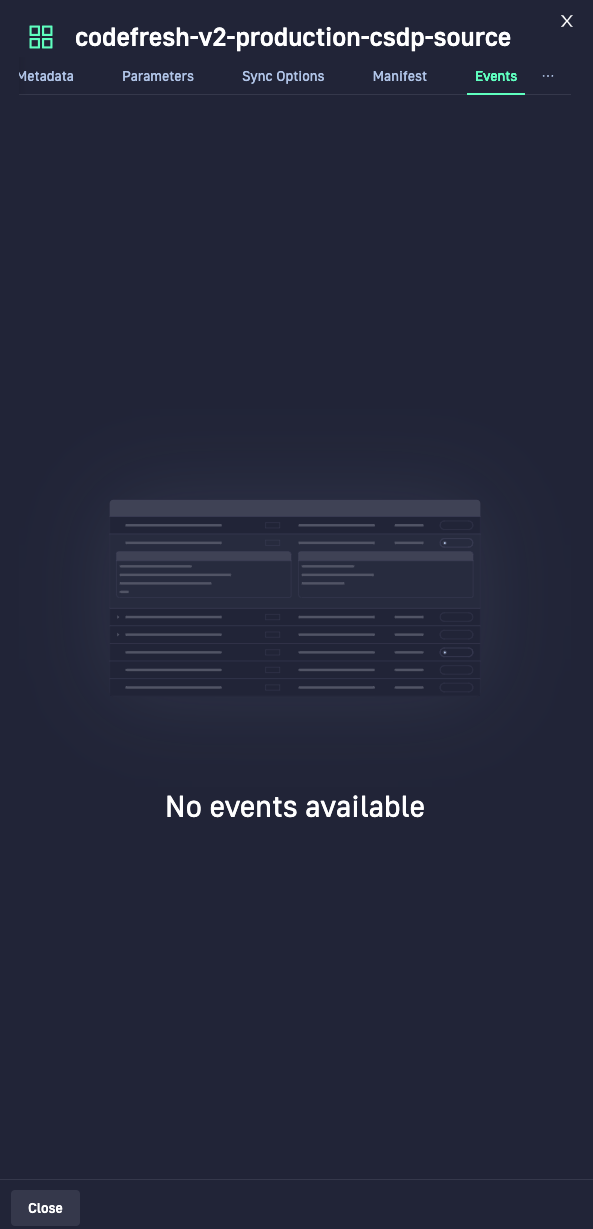
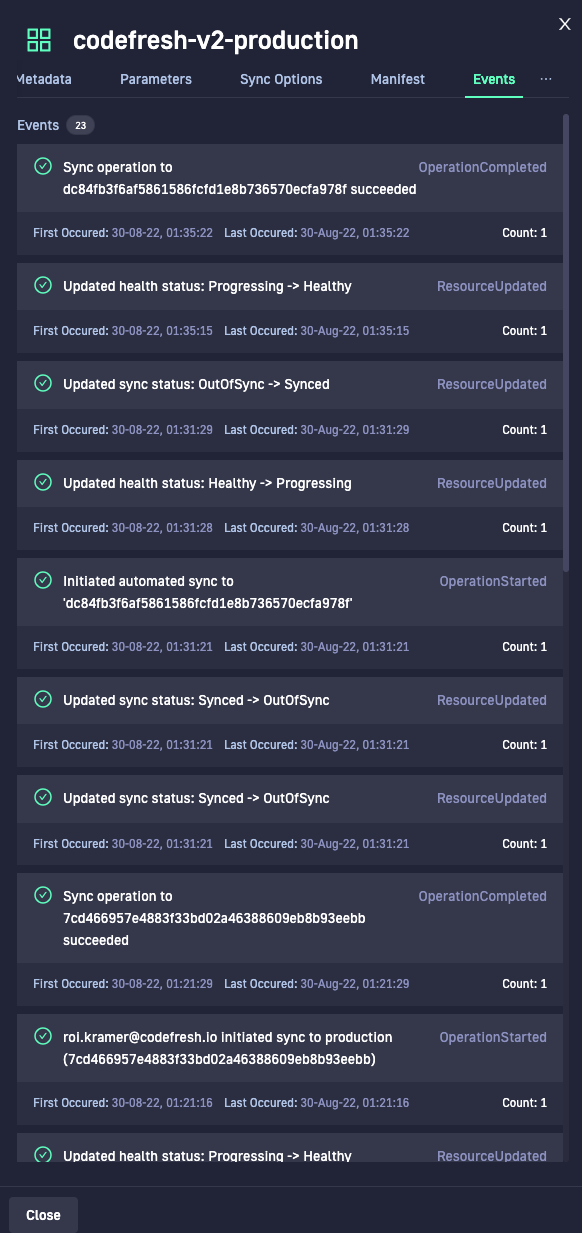
Update quick view context

diff --git a/_docs/deployment/applications-dashboard.md b/_docs/deployment/applications-dashboard.md
@@ -143,17 +143,133 @@ caption="App of Apps in Applications Dashboard"
 max-width="30%"
 %}
 
-<!---#### Application context menu
-Every application has a context menu with these options:
+#### Application context menu
+Every application in the Applications dashboard has a context menu with these options:
 * Quick view  
-  A comprehensive easy-to-understand view of the important information for the application, divided into tabs that 
+  A comprehensive read-only view of the deployment and definition information for the application.  
+  See [Application Quick View](#application-quick-view) in this article.  
 * Synchronize
-  Manually synchronize the application 
+  Manually synchronize the application.  
+  <!---See [Manually sync applications]({{site.baseurl}}/docs/deployment/sync-application).--->  
 * Edit
-  Modify application definitions.
-* Delete 
-  Delete the application.
-  --->
+  Modify application definitions.  
+  See [Update application configuration]({{site.baseurl}}/docs/deployment/create-application/#update-application-configuration).
+
+
+
+### Application Quick View
+
+The Quick View centralizes deployment, definition, and event information for an application in the same location.
+
+#### Access Quick View for application 
+Access the Quick View from the Applications dashboard through the context menu or after drilldown from the Current State tab.
+
+1. In the Codefresh UI, go to the [Applications dashboard](https://g.codefresh.io/2.0/applications-dashboard){:target="\_blank"}.
+1. In the row with the application, from the context menu on the right, select **Quick View**.
+  
+{% include
+image.html
+lightbox="true"
+file="/images/applications/quick-view-context-menu.png"
+url="/images/applications/quick-view-context-menu.png"
+alt="Selecting Quick View from the context menu"
+caption="Selecting Quick View from the context menu"
+max-width="50%"
+%} 
+
+  OR  
+  Select the application, and in the Current State tab, click the application resource.
+
+{% include
+image.html
+lightbox="true"
+file="/images/applications/quick-view-access-app-resource.png"
+url="/images/applications/quick-view-access-app-resource.png"
+alt="Accessing Quick View from the Current State tab"
+caption="Accessing Quick View from the Current State tab"
+max-width="50%"
+%} 
+
+
+
+#### Quick View - Summary
+Displays health, sync status, and source and destination definitions.
+
+{% include
+image.html
+lightbox="true"
+file="/images/applications/quick-view-summary.png"
+url="/images/applications/quick-view-summary.png"
+alt="Application Quick View: Summary"
+caption="Application Quick View: Summary"
+max-width="40%"
+%}
+
+#### Quick View - Metadata
+Displays labels and annotations for the application.
+
+{% include
+image.html
+lightbox="true"
+file="/images/applications/quick-view-metadata.png"
+url="/images/applications/quick-view-metadata.png"
+alt="Application Quick View: Metadata"
+caption="Application Quick View: Metadata"
+max-width="40%"
+%}
+
+#### Quick View - Parameters
+Displays parameters configured for the application, based on the tool used to create the application's manifests.  
+The parameters displayed differ according to the tool:  `directory` (as in the screenshot below), `Helm` charts, or `Kustomize` manifests, or the specific plugin.  
+
+{% include
+image.html
+lightbox="true"
+file="/images/applications/quick-view-parameters.png"
+url="/images/applications/quick-view-parameters.png"
+alt="Application Quick View: Parameters"
+caption="Application Quick View: Parameters"
+max-width="40%"
+%}
+
+#### Quick View - Sync Options
+Displays sync options enabled for the application.
+
+{% include
+image.html
+lightbox="true"
+file="/images/applications/quick-view-parameters.png"
+url="/images/applications/quick-view-parameters.png"
+alt="Application Quick View: Parameters"
+caption="Application Quick View: Parameters"
+max-width="40%"
+%}
+
+#### Quick View - Manifest 
+Displays the YAML version of the application manifest.
+
+{% include
+image.html
+lightbox="true"
+file="/images/applications/quick-view-manifest.png"
+url="/images/applications/quick-view-manifest.png"
+alt="Application Quick View: Manifest"
+caption="Application Quick View: Manifest"
+max-width="40%"
+%}
+
+#### Quick View - Events
+Displays status and sync events for the application.
+
+{% include
+image.html
+lightbox="true"
+file="/images/applications/quick-view-events.png"
+url="/images/applications/quick-view-events.png"
+alt="Application Quick View: Events"
+caption="Application Quick View: Events"
+max-width="40%"
+%}
 
 ### Application Current State
 The Current State tab for an application shows the live state of the application and the application's resources (Kubernetes objects) in the cluster in Tree and List view formats. 
@@ -163,10 +279,11 @@ The Current State tab for an application shows the live state of the application
 
 > Filters are shared between both views, and when applied are retained when switching between views. 
 
-Current State insights and actions:
+**Current State insights and actions**
 *  Health status: Reflects Argo CD's built-in health checks and status for the Application resource and Kubernetes objects. For more information, see [Argo CD Resource Health](https://argo-cd.readthedocs.io/en/stable/operator-manual/health/){:target="\_blank"}.
 *  Sync state: Desired state in Git versus live state in cluster.
 * Resource details: High-level information on mouse-over, and detailed manifest and log information on selecting the resource.
+
 
 The icon for a resource node identifies the type of Kubernetes resource it represents. For general information on K8s resources, see [Working with Kubernetes objects](https://kubernetes.io/docs/concepts/overview/working-with-objects/){:target="\_blank"}.
 
@@ -286,6 +403,8 @@ max-width="50%"
 
 #### Detailed resource information
 Selecting a resource, in either Tree or List view, shows resource manifests, logs, and events if any, based on the resource type you selected. Endpoints for example show only manifests, while pods show manifests, logs, and events.  
+
+> Selecting the application resource in Tree View, displays the [Quick View](#application-quick-view) for the application.
 
 
 **Summary**

diff --git a/_docs/deployment/sync-application.md b/_docs/deployment/sync-application.md
@@ -1,5 +1,5 @@
 ---
-title: "Sync applications"
+title: "Manually sync applications"
 description: ""
 group: deployment
 toc: true
